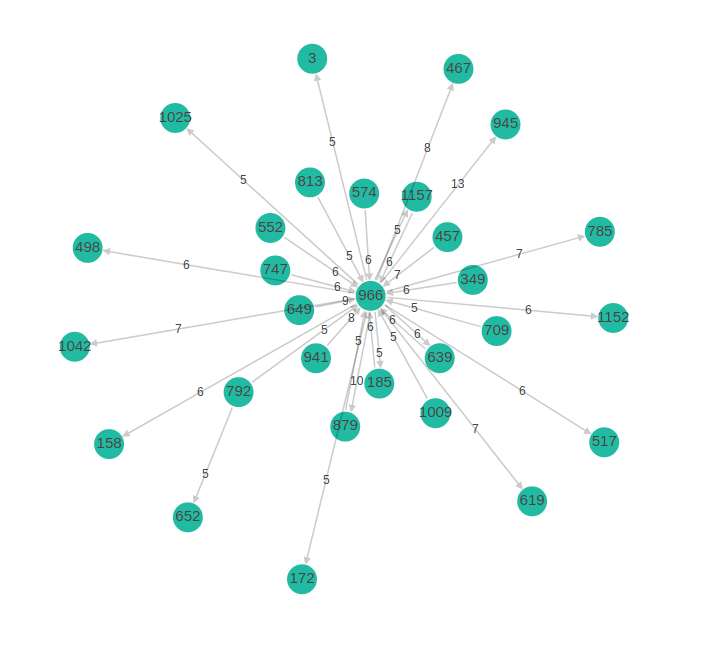
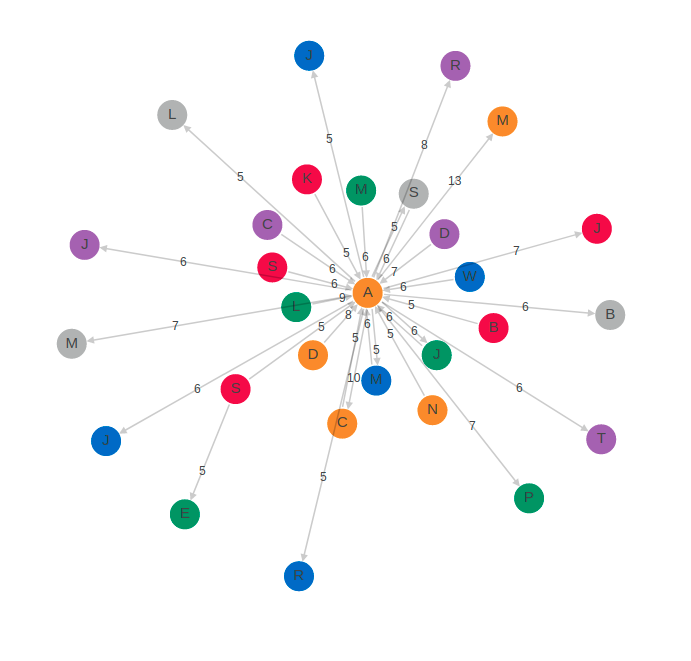
added node colors and names

diff --git a/src/network_graph_3d.py b/src/network_graph_3d.py
@@ -27,19 +27,22 @@ def draw_nodes(plot_dict, figure, config):
     x = [item["x"] for key, item in plot_dict.items()]
     y = [item["y"] for key, item in plot_dict.items()]
     z = [item["z"] for key, item in plot_dict.items()]
-    text = [str(key) for key, item in plot_dict.items()]
+    text = [item["name"] for key, item in plot_dict.items()]
+    color = [item["color"] for key, item in plot_dict.items()]
 
     for i in range(len(x)):
         figure.add_trace(go.Scatter3d(
             x=[x[i]],
             y=[y[i]],
             z=[z[i]],
-            text=text[i],
+            text=text[i][0],
             mode='markers+text',
             marker=dict(size=config["node_size_3d"],
-                        color='#52BCA3'),
+                        color=color[i]),
             textfont=dict(size=15),
-            hoverinfo='none',
+            hovertemplate=text[i],
+            hoverlabel=dict(namelength=0),
+            hoverinfo="skip",
             textposition="middle center"
         ))
 
@@ -64,14 +67,16 @@ def draw_edges(plot_dict, figure, config, weight_range):
             p1_line, p2_line, unit_direction = move_middle_points(p1_init, p2_init, config["midpoint_shift_3d"])
 
             weight = item["target_weights"][i]
-            text = '<b>weight {} -> {}: {}</b>'.format(str(key), str(target), str(weight))
+            source_name = item["name"]
+            target_name = plot_dict[target]["name"]
+            text = '<b>{} -> {}: {}</b>'.format(source_name, target_name, str(weight))
             width = config["line_width_3d"]
 
             bidirectional = key in plot_dict[target]["targets"]
             if bidirectional:  # for directed edges in both directions, only add edge once
                 other_weight = plot_dict[target]["target_weights"][plot_dict[target]["targets"].index(key)]
-                text = '<b>weight {} -> {}: {}, weight {} -> {}: {}</b>'.format(str(key), str(target), str(weight),
-                                                                                str(target), str(key), str(other_weight))
+                text = '<b>{} -> {}: {} <br> {} -> {}: {}</b>'.format(source_name, target_name, str(weight),
+                                                                     target_name, source_name, str(other_weight))
                 skip.append((target, key))
 
             # add line
@@ -127,7 +132,7 @@ def draw_edges(plot_dict, figure, config, weight_range):
     return figure
 
 
-def create_plot_dict(df, layout):
+def create_plot_dict(df_edges, df_nodes, layout):
     """
     :param df: Dataframe with source nodes, target nodes, and weights
     :param layout: Coordinates for each node
@@ -135,7 +140,7 @@ def create_plot_dict(df, layout):
     """
     plot_dict = dict()
 
-    for id, row in df.iterrows():
+    for id, row in df_edges.iterrows():
         source_id = row["source_id"]
         target_id = row["target_id"]
         weight = row["weights"]
@@ -146,6 +151,8 @@ def create_plot_dict(df, layout):
                     "x": layout[add_id][0],
                     "y": layout[add_id][1],
                     "z": layout[add_id][2],
+                    "color": df_nodes[df_nodes["node_id"] == add_id]["node_color"].values[0],
+                    "name": df_nodes[df_nodes["node_id"] == add_id]["node_label"].values[0],
                     "targets": [],
                     "target_weights": []
                 }
@@ -153,12 +160,12 @@ def create_plot_dict(df, layout):
 
         plot_dict[source_id]["targets"].append(target_id)
         plot_dict[source_id]["target_weights"].append(weight)
-    weight_range = (min(df["weights"]), max(df["weights"]))
+    weight_range = (min(df_edges["weights"]), max(df_edges["weights"]))
 
     return plot_dict, weight_range
 
 
-def create_figure(df, layout, config):
+def create_figure(df_edges, df_nodes, layout, config):
     """
     :param df: Dataframe with source nodes, target nodes, and weights
     :param layout: Coordinates for each node
@@ -166,7 +173,7 @@ def create_figure(df, layout, config):
     :return: Create a 3D directed weighted network graph from the given dataframe
     """
     fig = go.Figure()
-    plot_dict, weight_range = create_plot_dict(df, layout)
+    plot_dict, weight_range = create_plot_dict(df_edges, df_nodes, layout)
     fig = draw_nodes(plot_dict, fig, config)
     fig = draw_edges(plot_dict, fig, config, weight_range)
     fig.update_layout(
@@ -175,6 +182,7 @@ def create_figure(df, layout, config):
                    x=0.5),
         template="none",
         autosize=False,
+        hovermode="closest",
         width=800,
         height=800,
         showlegend=False,

diff --git a/src/network_graph_2d.py b/src/network_graph_2d.py
@@ -39,7 +39,8 @@ def draw_nodes(plot_dict, figure, config):
     """
     x = [item["x"] for key, item in plot_dict.items()]
     y = [item["y"] for key, item in plot_dict.items()]
-    text = [str(key) for key, item in plot_dict.items()]
+    text = [item["name"] for key, item in plot_dict.items()]
+    color = [item["color"] for key, item in plot_dict.items()]
 
     for i in range(len(x)):
         figure.add_trace(go.Scatter(
@@ -47,11 +48,14 @@ def draw_nodes(plot_dict, figure, config):
             y=[y[i]],
             mode='markers+text',
             marker=dict(size=config["node_radius"] * 2,
-                        color='#52BCA3'),
+                        color=color[i]),
             legendgroup=text[i],
-            text=text[i],
+            text=text[i][0],
+            hovertemplate=text[i],
+            hoverlabel=dict(namelength=0),
+            hoverinfo="skip",
             textfont=dict(size=15),
-            hoverinfo='none',
+            #hoverinfo='none',
         ))
 
     return figure
@@ -105,7 +109,7 @@ def draw_edges(plot_dict, figure, config):
     return figure
 
 
-def create_plot_dict(df, layout):
+def create_plot_dict(df_edges, df_nodes, layout):
     """
     :param df: Dataframe with source nodes, target nodes, and weights
     :param layout: Coordinates for each node
@@ -113,7 +117,7 @@ def create_plot_dict(df, layout):
     """
     plot_dict = dict()
 
-    for id, row in df.iterrows():
+    for id, row in df_edges.iterrows():
         source_id = row["source_id"]
         target_id = row["target_id"]
         weight = row["weights"]
@@ -123,6 +127,8 @@ def create_plot_dict(df, layout):
                 new_element = {
                     "x": layout[add_id][0],
                     "y": layout[add_id][1],
+                    "color": df_nodes[df_nodes["node_id"] == add_id]["node_color"].values[0],
+                    "name": df_nodes[df_nodes["node_id"] == add_id]["node_label"].values[0],
                     "targets": [],
                     "target_weights": []
                 }
@@ -134,7 +140,7 @@ def create_plot_dict(df, layout):
     return plot_dict
 
 
-def create_figure(df, layout, config):
+def create_figure(df_edges, df_nodes, layout, config):
     """
     :param df: Dataframe with source nodes, target nodes, and weights
     :param layout: Coordinates for each node
@@ -142,7 +148,7 @@ def create_figure(df, layout, config):
     :return: Create a 2D directed weighted network graph from the given dataframe
     """
     fig = go.Figure()
-    plot_dict = create_plot_dict(df, layout)
+    plot_dict = create_plot_dict(df_edges, df_nodes, layout)
     fig = draw_nodes(plot_dict, fig, config)
     fig = draw_edges(plot_dict, fig, config)
     fig.update_layout(
@@ -153,7 +159,8 @@ def create_figure(df, layout, config):
         autosize=False,
         width=800,
         height=800,
-        showlegend=False
+        showlegend=False,
+        hovermode="closest"
     )
     fig.update_xaxes(showgrid=False, zeroline=False)
     fig.update_yaxes(showgrid=False, zeroline=False)

diff --git a/main.py b/main.py
@@ -22,10 +22,10 @@ if len(sys.argv) <= 1:
     exit(1)
 
 filename = sys.argv[1]
-df = pd.read_excel(
-    os.path.join("data/", filename),
-    engine="openpyxl",
-)
+xls = pd.ExcelFile(os.path.join("data/", filename), engine='openpyxl')
+df = pd.read_excel(xls, "edges")
+df_nodes = pd.read_excel(xls, "nodes", usecols=[0, 1, 2])
+
 
 global_config = {
     "node_radius": 15,
@@ -110,7 +110,7 @@ def update_graph(n_clicks, fig_name, dim):
             layout = nx.random_layout(G, seed=10, dim=3)
             valid = 1
     if valid == 1:
-        return network.create_figure(df, layout, global_config)
+        return network.create_figure(df, df_nodes, layout, global_config)
     else:
         fig = go.Figure()
         return fig

diff --git a/README.md b/README.md
@@ -11,7 +11,7 @@ pip install -r requirements.txt
 ```
 ## How to Run
 
-To run this project use the command:
+To run this project, use the command:
 ```bash
 python main.py <filename>
 ```
@@ -24,8 +24,11 @@ python main.py raan_case_study.xlsx
 
 ## Description
 
-The input is given as an Excel document with the columns "source_id", "target_id", and "weights".
+The input is given as an Excel document with two sheets named "edges" and "nodes". 
+The "edges" sheet contains columns "source_id", "target_id", and "weights".
 Each row represents a weighted directed edge from the source node to the target node.
+The "nodes" sheet contains the columns "node_id", "node_color", and "node_label".
+It is used to describe the names and colors of each node.
 The output consists of visualizations representing the given network. 
 There are several options for choosing the visualization type. 
 Both the dimension and the layout can be chosen from a dropdown menu. 
@@ -33,6 +36,7 @@ The figure is shown after clicking the submit button.
 
 ### 2D
 In the 2-dimensional visualization, the weights are given on the corresponding edges.
+The letter on the nodes represents the first letter of the corresponding name. The full name is shown when hovering over the node.
 The following four layouts can be chosen:
 * Spring Layout (example below)
 * Random Layout
@@ -42,8 +46,9 @@ The following four layouts can be chosen:
 ![Image](images/2d_spring_layout.png "2D Spring Layout")
 
 ### 3D
-In the 3-dimensional visualization, the color of the edges represent the weights.
+In the 3-dimensional visualization, the color of the edges represents the weights.
 Additionally, by hovering over the edges, a description of the edge direction and weight is given.
+The full name of each node is displayed when hovering over the respective node.
 The figure can be turned by clicking on the figure and moving the mouse. Zooming in and out is possible by scrolling up and down.
 The following two layouts can be chosen:
 * Spring Layout (example below)
